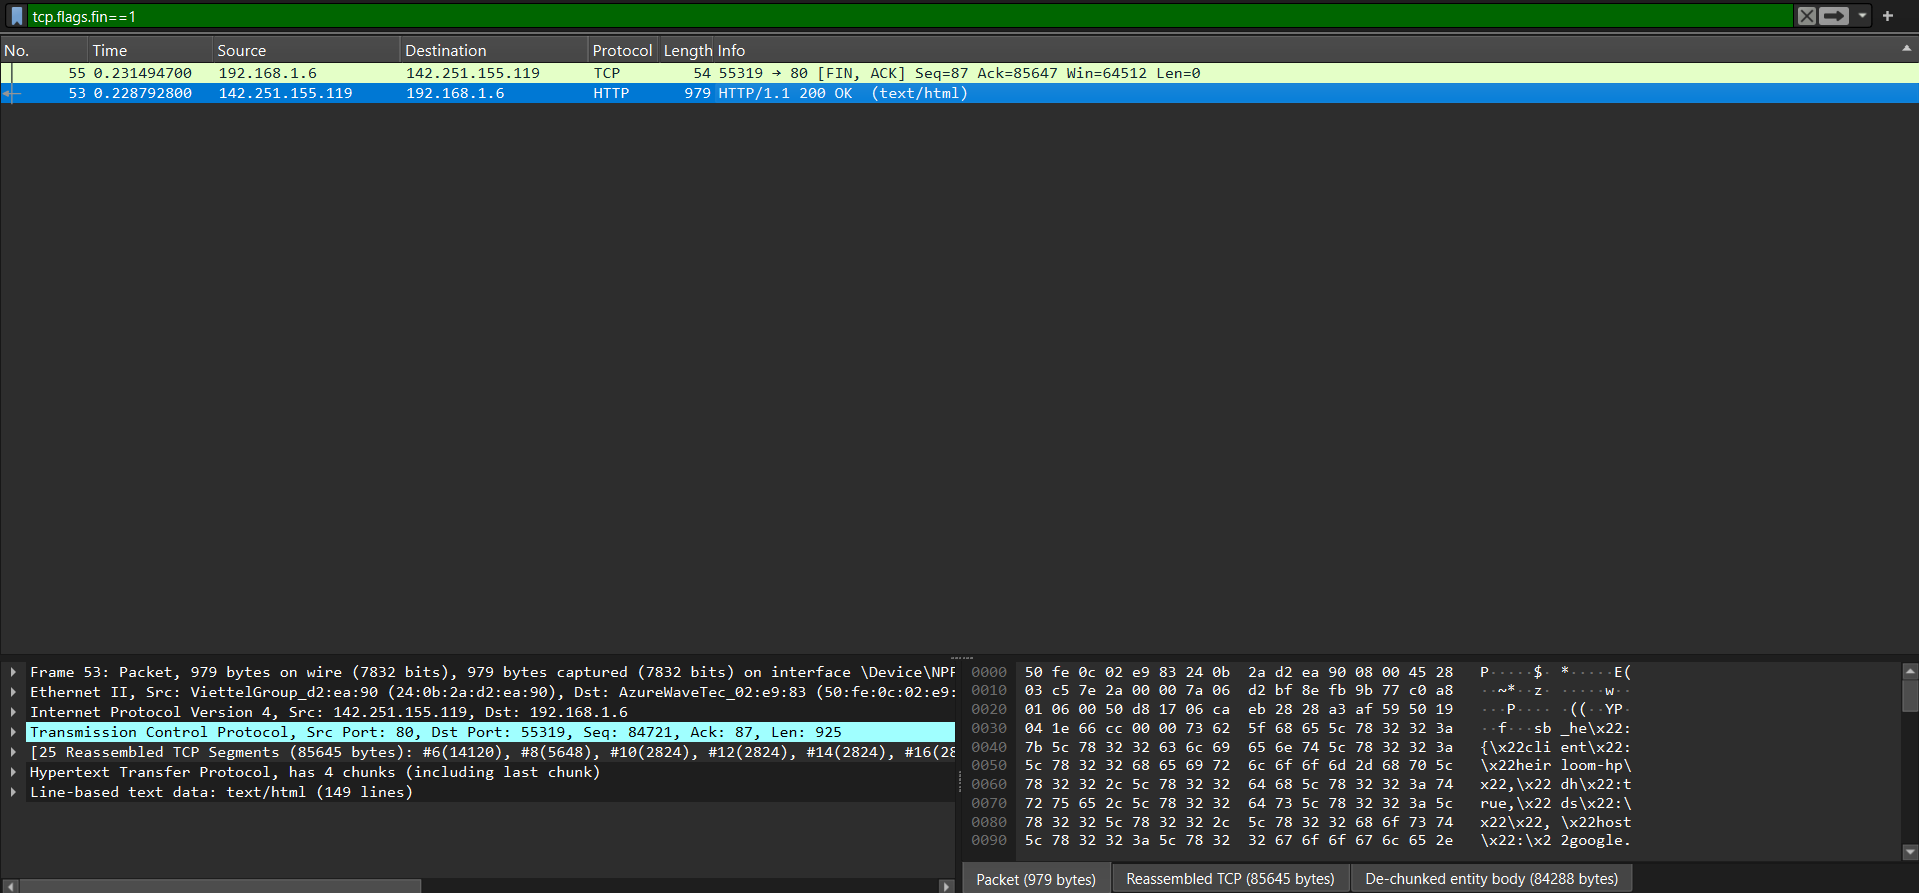
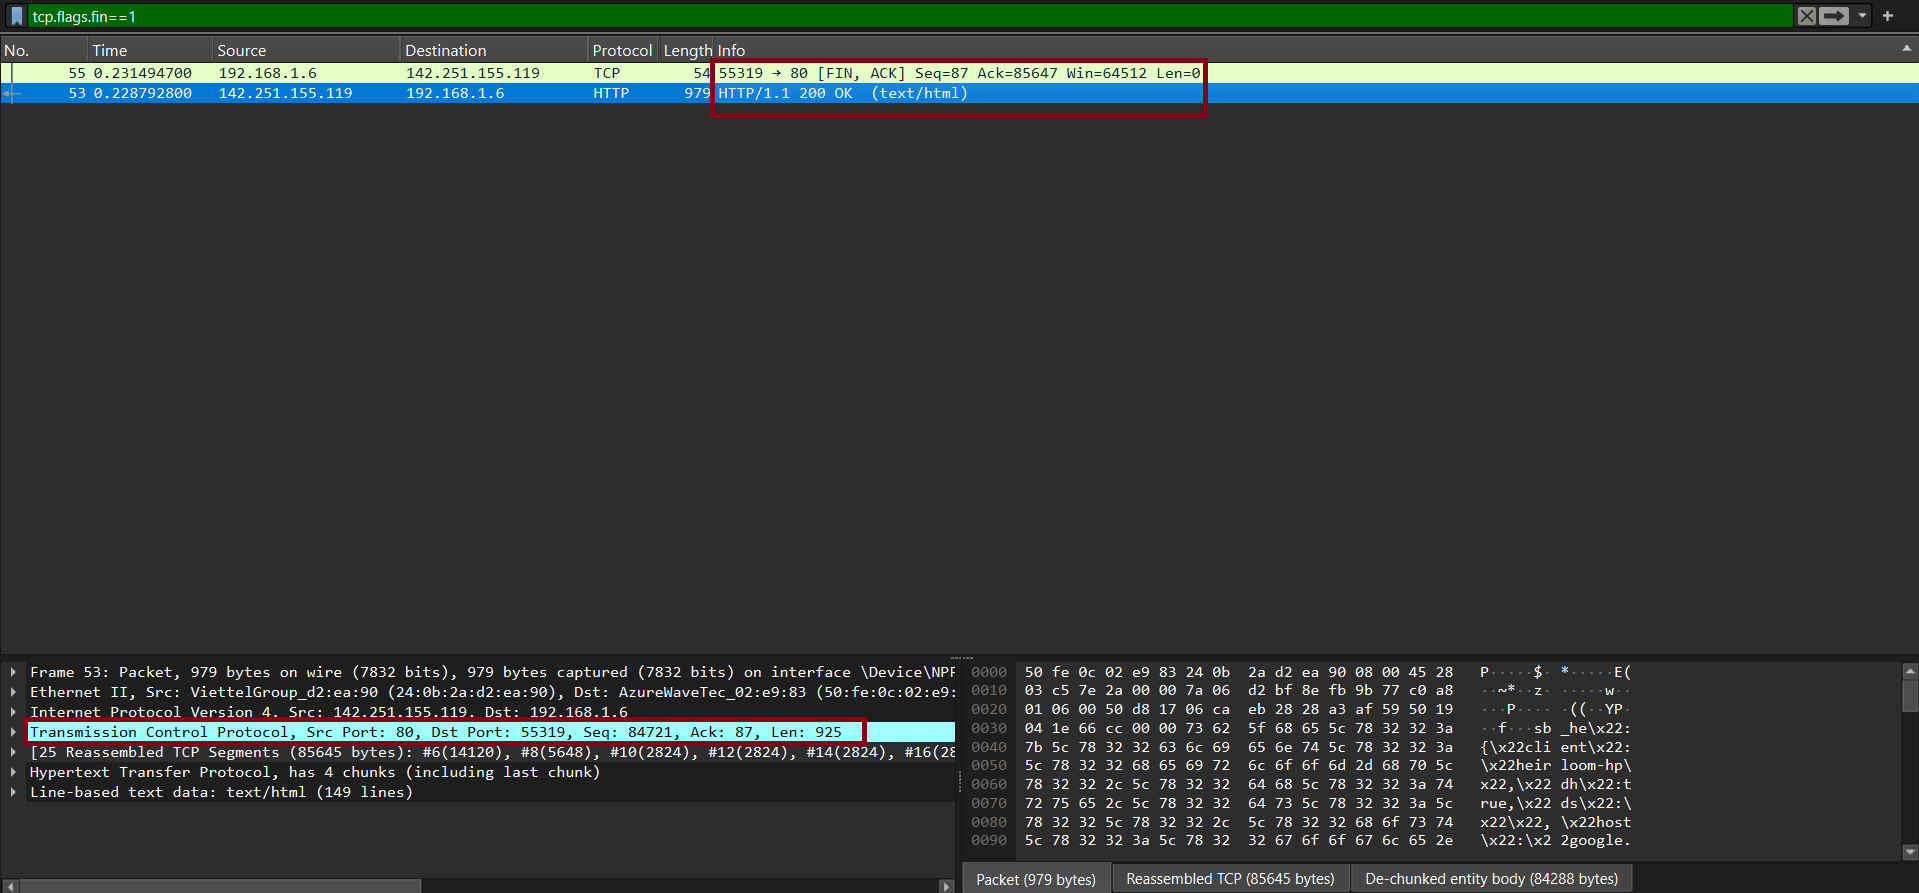
update

Changed region(s): [[0.0, 0.7861, 0.4612, 0.8466], [0.3689, 0.1209, 0.6456, 0.1512], [0.3689, 0.0605, 0.6456, 0.0907]]

diff --git a/project2-http/http_client_neverssl.py b/project2-http/http_client_neverssl.py
@@ -10,24 +10,24 @@ port = 80
 s = socket.socket(socket.AF_INET, socket.SOCK_STREAM)
 # 2. Open the connection (this triggers the TCP 3-way handshake)
 s.connect((host, port))
-# # 3. Build a minimal HTTP/1.1 GET request
-# # Lines end in CRLF; a blank line marks the end of the headers.
-# request = (
-#     "GET / HTTP/1.1\r\n"
-#     "Host: neverssl.com\r\n"
-#     "User-Agent: SocketLab/1.0\r\n"
-#     "Connection: close\r\n"
-#     "\r\n"
-# )
-# # 4. Send the request bytes
-# s.sendall(request.encode())
-# # 5. Read the whole response until the server closes the connection
-# response = b""
-# while True:
-#     chunk = s.recv(4096)
-#     if not chunk:
-#         break
-#     response += chunk
-# # 6. Print the response and close the socket
-# print(response.decode(errors="replace"))
-# s.close()
+# 3. Build a minimal HTTP/1.1 GET request
+# Lines end in CRLF; a blank line marks the end of the headers.
+request = (
+    "GET / HTTP/1.1\r\n"
+    "Host: neverssl.com\r\n"
+    "User-Agent: SocketLab/1.0\r\n"
+    "Connection: close\r\n"
+    "\r\n"
+)
+# 4. Send the request bytes
+s.sendall(request.encode())
+# 5. Read the whole response until the server closes the connection
+response = b""
+while True:
+    chunk = s.recv(4096)
+    if not chunk:
+        break
+    response += chunk
+# 6. Print the response and close the socket
+print(response.decode(errors="replace"))
+s.close()
